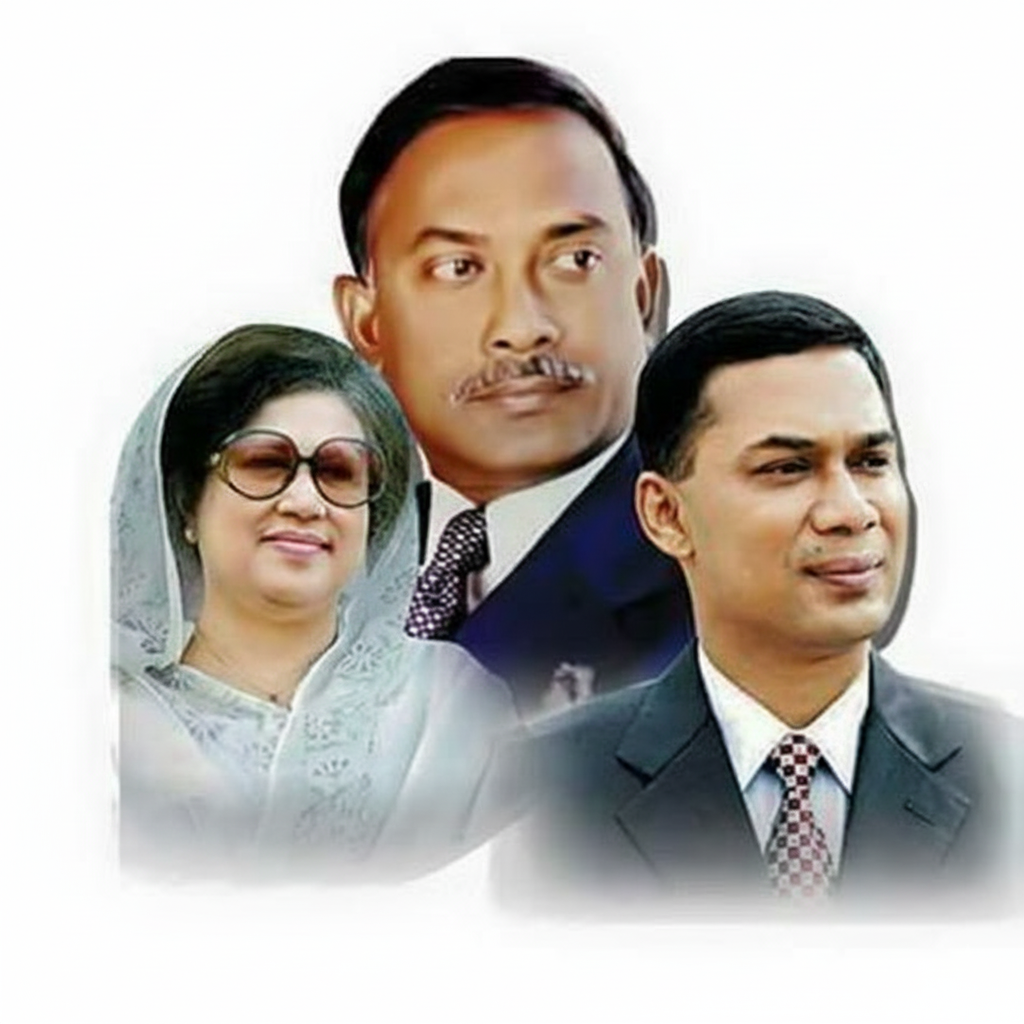
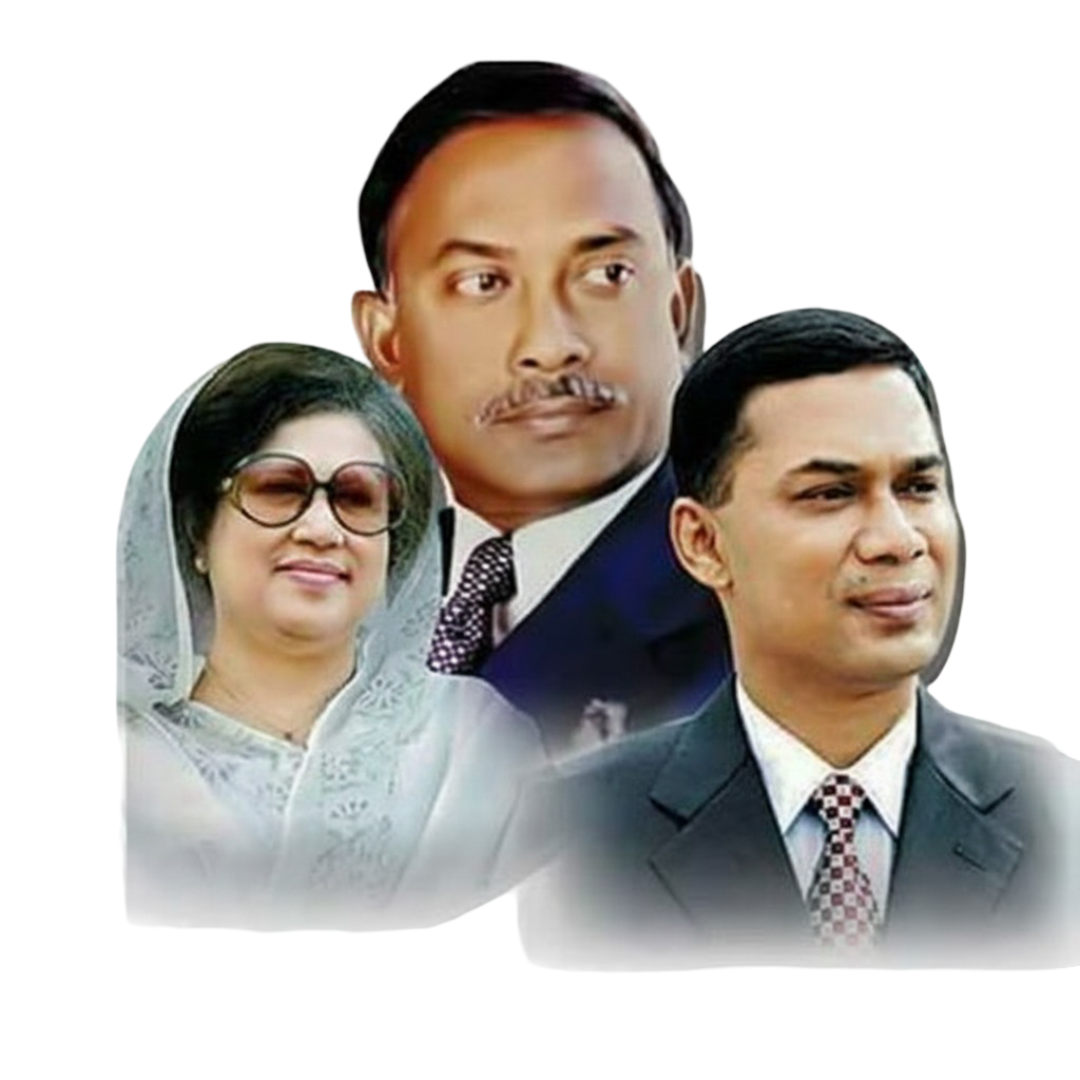
feat: add HeroSection component and its corresponding campaign image. fixed the  hero bnp image bug and design

diff --git a/frontend/components/HeroSection.tsx b/frontend/components/HeroSection.tsx
@@ -29,14 +29,15 @@ export default function HeroSection() {
         <div className="flex flex-col-reverse sm:flex-row gap-10 lg:gap-16 items-center">
           {/* Left Column */}
           <div className="flex-1 space-y-6">
-            <div className="relative w-50 h-40 md:w-fit md:h-fit overflow-hidden">
+            <div className="relative mb-1 w-full h-fit max-w-[190px] sm:max-w-[230px]">
               <Image
                 src={sharedImages.bnpPoster}
                 alt="BNP Campaign Poster"
-                width={200}
-                height={200}
-                className="object-contain w-full h-auto max-w-[320px] sm:max-w-[360px]"
+                width={230}
+                height={230}
+                className="object-contain w-full h-auto"
                 priority
+                unoptimized
               />
             </div>
 
